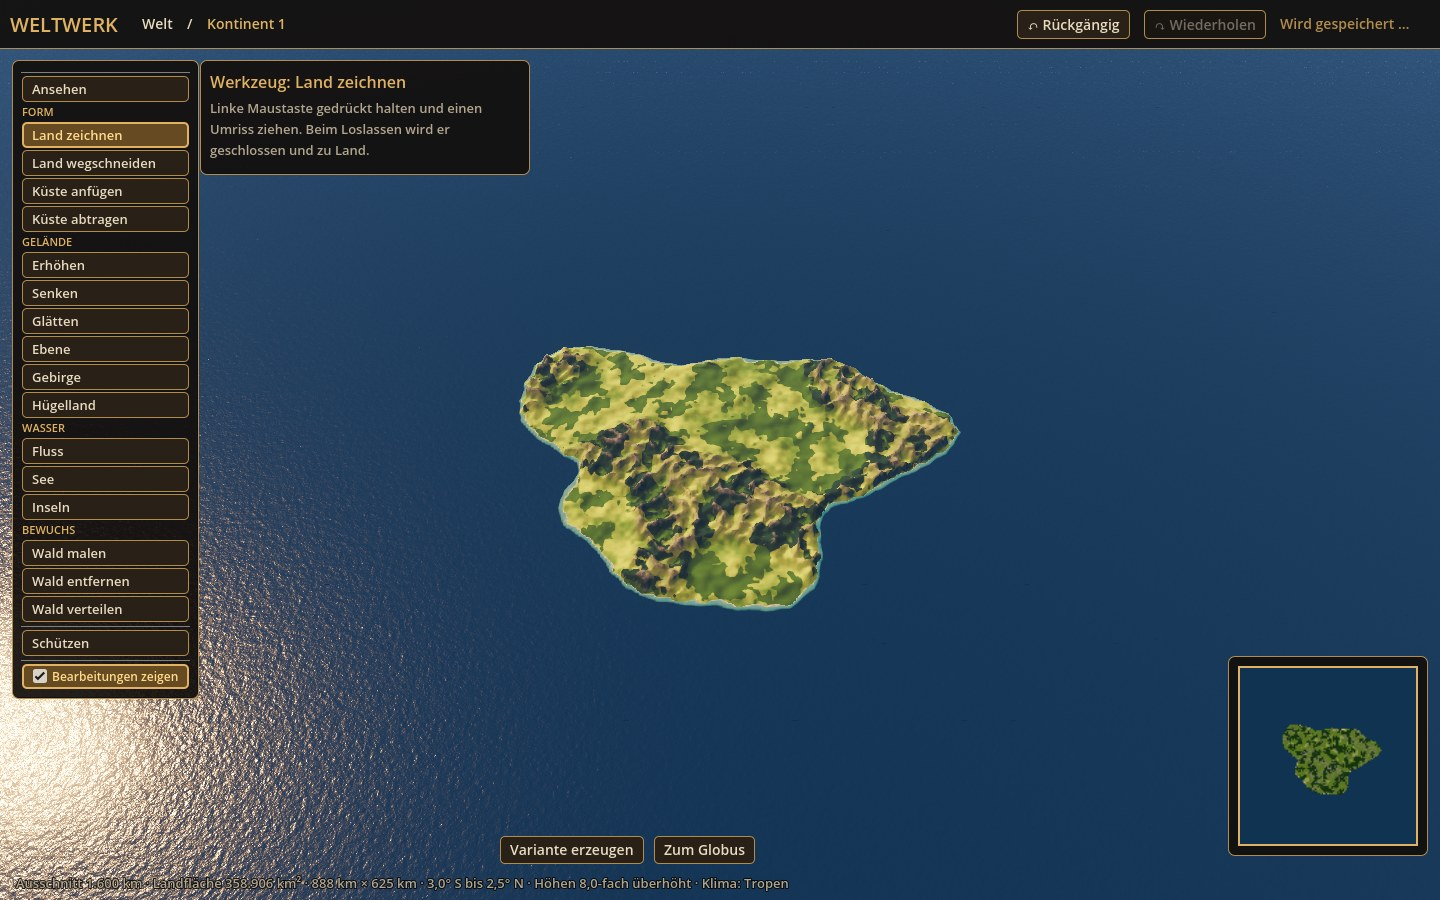
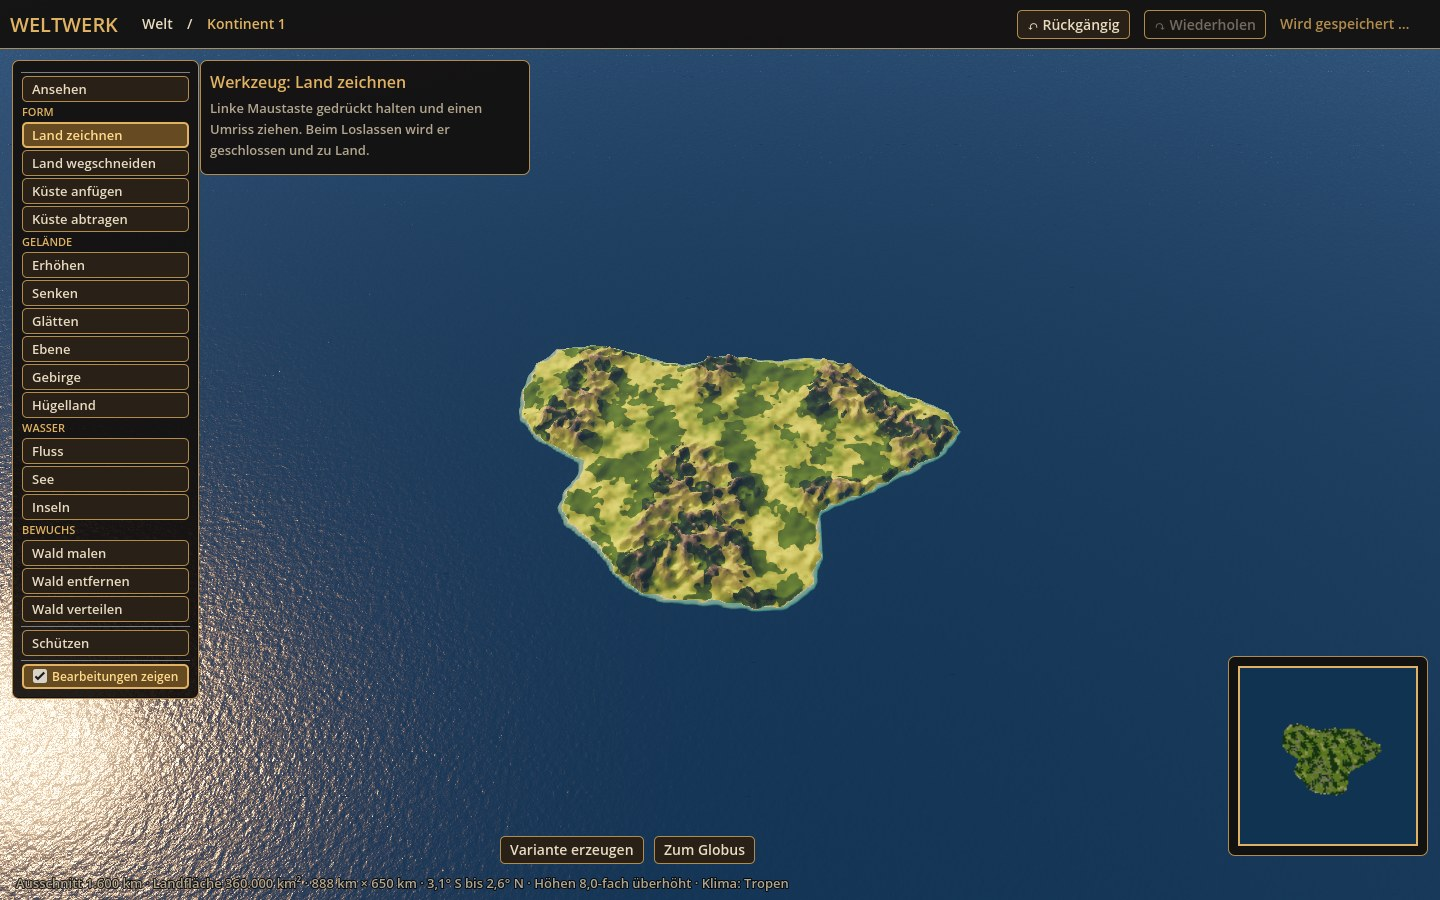
Bericht, CLAUDE.md, weiche Datentextur, Nadelwald ohne Blaustich, Abnahme Nachbarbereich
- docs/BERICHT_KONTINENTE.md: Ablauf, Geprüftes (Abnahme 20/20 und 9/9, 49 Tests),
  Eingeschränktes, Ungeprüftes, Messwerte, Guthaben; Bilder in docs/abnahme und docs/stufen.
- CLAUDE.md: Weltmodell mit Kennungen, Befehle (--neu, --abnahme, --stufen), Entscheidungen
  (Planet bis doppelte Erde, Anzahl Kontinente nicht begrenzt), offene Punkte.
- Farben aus einer 16-Bit-Kopie der Datentextur (wird überall weich gefiltert).
- Nadelwald-Luftbild ohne Blaustich (sah aus der Ferne wie Tümpel aus).
- Abnahme Teil 2 prüft das Mitwandern des Ausschnitts.

diff --git a/docs/BERICHT_KONTINENTE.md b/docs/BERICHT_KONTINENTE.md
@@ -1,0 +1,118 @@
+# Bericht: Kontinente, Kontinentalkarten, Regionen (21. 11. 2026)
+
+Auftrag: eigene Kontinente anlegen, auf dem Globus platzieren, daraus brauchbare,
+detaillierbare Kontinentalkarten gestalten; Regionen als anschließendes Ziel. Entwurf:
+`docs/ENTWURF_KONTINENTE.md`. Abnahme mit neuer Testwelt: bestanden (siehe unten).
+
+## Starten
+
+```powershell
+$godot = "C:\Users\Mattes\Downloads\Godot_v4.7.2-stable_win64.exe\Godot_v4.7.2-stable_win64_console.exe"
+& $godot --path D:\WELTWERK                       # Editor mit der eigenen Welt (user://welt.json)
+& $godot --path D:\WELTWERK -- --neu              # leere Probewelt (user://welt_neu.json, nie die Hauptwelt)
+& $godot --position 2000,60 --path D:\WELTWERK -- --abnahme=D:\WELTWERK\docs\abnahme --schritt=1   # Abnahme Teil 1
+& $godot --position 2000,60 --path D:\WELTWERK -- --abnahme=D:\WELTWERK\docs\abnahme --schritt=2   # Teil 2 (Neustart)
+```
+
+Der Editor startet dort, wo zuletzt gearbeitet wurde (Globus, Kontinent oder Region).
+
+## Ablauf in der Oberfläche
+
+1. **Globus**: rechts „Neu zeichnen“ (leere Meeresfläche, gleich mit „Land zeichnen“) oder
+   „Neu erzeugen“ (erzeugte Grundform als Ausgangspunkt). Klick wählt einen Kontinent, Ziehen
+   auf dem gewählten verschiebt ihn, Ziehen daneben dreht den Globus, Doppelklick öffnet.
+   Regler: Planetengröße (bis doppelte Erde), Größe, Breite, Länge, Ausrichtung, Klima;
+   Namensfeld (bleibt leer, bis der Spielleiter einen Namen vergibt); „Löschen“ mit Rückfrage.
+2. **Kontinent**: Werkzeugleiste links in Gruppen – Form (Land zeichnen, Land wegschneiden,
+   Küste anfügen/abtragen), Gelände (Erhöhen, Senken, Glätten, Ebene, Gebirge, Hügelland),
+   Wasser (Fluss, See, Inseln), Bewuchs (Wald malen/entfernen, Wald verteilen), Schützen.
+   Oben daneben steht immer das aktive Werkzeug mit einem Satz zur Bedienung und nur den
+   Reglern, die es braucht; „Neu würfeln“ bei Erzeugung. Pinselkreis in echter Größe,
+   Umriss und Fluss als Linie vor dem Loslassen. Unten rechts die Übersichtskarte mit dem
+   sichtbaren Ausschnitt (Klick springt), unten die Statuszeile mit Landfläche, Ausdehnung
+   und Breitenlage.
+3. **Regionen**: am Zoom-Anschlag weiter hineinzoomen öffnet 1/8 unter dem Mauszeiger (bis
+   etwa 400 m Seitenlänge). Pfad oben (Welt / Kontinent / Region 1:8 / …) führt zurück.
+   Verschiebt man über den Rand, wandert der Ausschnitt mit.
+
+## Was funktioniert (geprüft)
+
+Abnahme mit echten Mausereignissen in zwei getrennten Programmläufen (`docs/abnahme/`):
+**Teil 1: 20/20 Prüfungen, Teil 2 (nach Neustart): 9/9.** Dazu 49 Tests der Fachlogik.
+
+| Prüfung | Bild |
+| --- | --- |
+| Neue, leere Welt; „Neu zeichnen“ öffnet den Kontinent mit „Land zeichnen“ | `a01`, `a02` |
+| Umriss mit der Maus gezeichnet → Land; Bucht weggeschnitten → Meer | `a03` |
+| Gebirge (bis 3.200 m), „Neu würfeln“ ersetzt die Erzeugung | `a04`, `a05` |
+| Hügelland, Wald verteilen, Fluss (Spiegel fällt), See (Wasser über Grund), Inseln, Schutz | `a04`, `a05` |
+| Zurück zum Globus, Kontinent mit der Maus verschoben (ein Rückgängig-Schritt) | `a06`, `a07` |
+| Ausrichtung und Größe je ein Schritt; Planetengröße 9.000 km | `a07` |
+| Zweiter, erzeugter Kontinent; Löschen; Rückgängig stellt ihn wieder her | `a08` |
+| Doppelklick öffnet den Kontinent; Region 1:64 vertiefen, Wald und Höhe malen | `a09` |
+| Herauszoomen: Detailarbeit vereinfacht und am richtigen Ort markiert | `a10` |
+| Gespeichert = geladen (gleicher Stand) | – |
+| Neustart: beide Kontinente, gleicher Weltstand, Höhen bitgleich, letzte Ansicht (Region) | `b01` |
+| Weiterarbeiten nach Neustart, Rückgängig und Wiederholen | `b02` |
+| Ausschnitt wandert beim Verschieben über den Rand mit | `b02b` |
+| Globus nach Neustart | `b03` |
+
+Weitere geprüfte Eigenschaften (Tests): Land-Bearbeitungen wirken in Reihenfolge (zweimal
+anfügen, dann abtragen = Meer); kein Land jenseits des Kontinentfensters; Grundform wächst beim
+Skalieren mit („Alles wächst mit“); Live-Malen ergibt genau dasselbe wie die Neuberechnung;
+Schutz hält die alte Variante fest und blockiert spätere Erzeugung, ältere Erzeugung bleibt;
+beschädigte Weltdatei wird beiseitegelegt und der letzte gute Stand geladen; alte Weltdateien
+(ohne Kennungen) werden übernommen; Landfläche einer gezeichneten Form auf ±6 % genau.
+
+**Grafik** – bewertet auf fünf Stufen im benutzbaren Editor (`docs/stufen/`, vorher/nachher):
+
+- Feinster Ausschnitt (≈ 400 m): gemischter Wald mit Laub- und neuen Nadelbäumen, Farb- und
+  Größenstreuung je Baum, Arten nach Höhe und Klima; feineres Gras, das zu Ufer und Waldrand
+  hin ausläuft; klares Flachwasser mit Felsen am Ufer.
+- Mittlere Stufen (3–240 km): Wiesenfarben aus der Zielpalette in festen Meterwellen (gleiche
+  Welt auf jeder Stufe statt mitwachsender Musterung), Wald als Kronendach-Luftbild.
+- Kontinent: Schummerung, Höhenstufen, Schnee, Flüsse und Seen als Wasser.
+- Globus: alle Kontinente, gewählter mit Messingrahmen, helleres Meer, Atmosphärensaum.
+
+Messwerte (RTX 2070 Super, 1440 × 900): Kontinent bis Region 3 km 280–310 Bilder/s;
+feinster Ausschnitt 160 Bilder/s (Wiese/Ufer) bzw. 62 Bilder/s (dichter Mischwald,
+3,4 Mio. Dreiecke). Ausschnitt berechnen 0,2–0,6 s, feinster mit Bäumen und Gras 0,7–1,0 s.
+
+## Eingeschränkt
+
+- **Formen einzeln ändern**: Ein gezeichneter Umriss lässt sich nicht nachträglich anfassen
+  und verschieben; ändern heißt übermalen (anfügen/wegschneiden/Küste) oder Rückgängig.
+  „Umriss aus erzeugter Grundform“ (Erzeugung als bearbeitbare Form) fehlt.
+- **Flüsse** folgen dem Gefälle nur entlang des gezogenen Laufs (Spiegel steigt nie an, Lauf
+  wird zum tieferen Ende ausgerichtet); sie suchen sich keinen Weg selbst. Seen sind rund.
+- **Regionen** haben keinen Namen und keine Liste; man öffnet sie durch Hineinzoomen oder die
+  Übersichtskarte, gemerkte Ausschnitte erscheinen als Messingrahmen. Ein Rechteck aufziehen
+  („Ausschnitt wählen“) gibt es nicht. Beim Mitwandern stockt das Bild kurz (0,4–1 s).
+- **Rückgängig** gilt je Sitzung; nach einem Neustart beginnt der Verlauf neu (Weltstand bleibt).
+- **Überlappende Kontinente** werden nur gemeldet (Statuszeile); auf dem Globus gilt das höhere
+  Land, in der Landschaft zeigt jeder Kontinent nur sich selbst.
+- **Übergang zwischen Stufen** ist ein Wechsel, kein fließender Zoom (Daten sind dafür bereit).
+- Die gröbere Umgebung um einen Ausschnitt ist sichtbar gröber (Ring im Hintergrund).
+
+## Ungeprüft
+
+- Sehr viele Kontinente (geprüft: 2; vorgesehen sind über 2.000) und sehr lange Strichlisten
+  (Leistung). Trackpad-Bedienung, MacBook (laut Absprache nicht vorrangig).
+- Bedienung von Hand über längere Zeit (alle Prüfungen sind automatische Mausabläufe plus
+  Bildkontrolle; die Bedienwege sind dieselben).
+- Sehr kleine oder sehr große Planeten in Kombination mit großen Kontinenten (Verzerrung der
+  mittabstandstreuen Abbildung über ~3.000 km).
+
+## Bestand und Guthaben
+
+Higgsfield in diesem Auftrag: **4 Bilder, 8 Guthaben** (561,85 → 553,85; Grenze 400):
+Nadelzweig-Atlas, dunklerer Laubatlas, Kronendach Laubwald und Nadelwald (Luftbild, nahtlos).
+Protokoll mit Anweisungen in `assets/target/source/generated.json`. Nadelbäume per
+Blender-Skript (`tools/blender/make_target_assets.py`, fester Ausgangswert).
+
+## Unabhängige Prüfung
+
+Zwei Prüfrunden mit getrennten Prüfern und Gegenprüfung. Runde 1: 18 bestätigte Befunde,
+alle behoben (u. a. Schutz gegen ältere Erzeugung, Live/Neuberechnung bei Land und Ebene,
+abgebrochenes Ziehen, Name beim falschen Kontinent, Ersatzdatei nach Beschädigung). Runde 2:
+siehe Abschnitt unten.

diff --git a/CLAUDE.md b/CLAUDE.md
@@ -100,12 +100,11 @@ mit Schnee, Sandstrände, türkisfarbenes Flachwasser über tiefem Blau, natürl
 Bedienung dort: Werkzeugleiste links, Pfad oben (Welt / Kontinent / Region), Rückgängig,
 „Gespeichert“, Pinselkreis mit Einstellungen.
 
-## Noch offen
-- Wie Kontinentgröße und Handarbeit zusammenspielen (Frage an den Spielleiter offen).
-- Kontinentgröße ändern skaliert nur die Grundform, Striche bleiben in Metern – wie soll
-  Skalieren mit Handarbeit umgehen?
-- Flüssiger Übergang zwischen Maßstäben, Flüsse am Gefälle, Seen über Meereshöhe, Festsetzen,
-  Konfliktanzeige, Form zeichnen/importieren, mehrere Kontinente – noch nicht gebaut.
+## Noch offen (Stand 21. 11. 2026, Einzelheiten docs/BERICHT_KONTINENTE.md)
+- Flüssiger Übergang zwischen Maßstäben (heute Wechsel; Daten sind dafür bereit).
+- Formen nachträglich anfassen/verschieben; erzeugte Grundform als bearbeitbare Form.
+- Regionen mit Namen und Liste, Rechteck aufziehen; Flüsse, die sich selbst einen Weg suchen.
+- Überlappende Kontinente nur gemeldet, nicht zusammengeführt; Rückgängig gilt je Sitzung.
 
 ## Bestand und Lizenzen
 - Fremdbestände nur mit klarer Lizenz; Herkunft, Lizenz, Urheber und Größe in `docs/STILTEST.md`
@@ -116,10 +115,15 @@ Bedienung dort: Werkzeugleiste links, Pfad oben (Welt / Kontinent / Region), Rü
 - Laubmodelle nicht mit Godots automatischer Vereinfachung (LOD) importieren – sie rechnet
   Blätter weg. Normalenkarten beim Import als solche markieren (`tools/run_style_test.ps1`).
 
-## Weltmodell (Kurzfassung, Einzelheiten in `docs/PLAN.md`)
-- `WorldDocument` = Planet + Kontinente (Lage, Ausgangswert, Klima-Anpassung, **Strichliste**,
-  gemerkte Regionen). Jede Änderung ist ein Befehl → Rückgängig/Wiederholen. Gespeichert wird
-  nur dieser Stand (JSON); alles Abgeleitete wird neu berechnet.
+## Weltmodell (Kurzfassung, Einzelheiten in `docs/PLAN.md`, `docs/ENTWURF_KONTINENTE.md`)
+- `WorldDocument` = Planet (Radius bis doppelte Erde) + beliebig viele Kontinente mit **fester
+  ID** (Name, Grundform `generated`/`drawn`, Lage, Größe, `base_size_km`, Ausgangswert,
+  `scatter_seed`, Klima-Anpassung, **Strichliste**, gemerkte Regionen). Befehle verweisen auf die
+  ID, nie auf den Listenplatz; Planetwerte über `WorldDocument.PLANET`. Jede Änderung ist ein
+  Befehl → Rückgängig/Wiederholen. Gespeichert wird nur dieser Stand (JSON, volle Genauigkeit,
+  `.bak`; beschädigte Datei → `.defekt`, nie überschrieben); alles Abgeleitete wird neu berechnet.
+- Striche: Pinsel, Formen (`shape_add`/`shape_remove`), Erzeugung (`gen_*`, eigener Ausgangswert,
+  
 - `TerrainSampler` = die eine Auswertungsfunktion: Erzeugung (nur so fein wie das Raster) plus
   Striche → `TerrainWindow` (Ausschnitt: Höhe, Wald, Bearbeitungsmarken). Kontinentkoordinaten
   in Metern, 64 Bit, x = Osten, y = Norden.
@@ -142,7 +146,9 @@ Bedienung dort: Werkzeugleiste links, Pfad oben (Welt / Kontinent / Region), Rü
   `target_materials.gd` (Bäume, Felsen, Büsche, Gras – auch vom Editor genutzt),
   `meadow.gdshaderinc` (eine Wiesenfarbe für Boden und Gras), `water_clear.gdshader`,
   `rock_granite.gdshader`, `grass_cards.gdshader`, `target_landscape.gd` (Landschaft, rein).
-- `src/editor/landscape_detail.gdshader` – Editor-Boden im Zielstil (Ausschnitte bis 3,6 km).
+- `src/editor/landscape_detail.gdshader` – Editor-Boden im Zielstil (Ausschnitte bis 4,2 km).
+- `docs/BERICHT_KONTINENTE.md` – Bericht des Kontinent-Auftrags; `docs/abnahme/`, `docs/stufen/` Bilder.
+- `tools/profile_window.gd` – Auswertungszeit eines Ausschnitts je Bearbeitung messen.
 - `assets/target/` – Zielbestand (Blender-Skript + Higgsfield; Originale und Protokoll in
   `assets/target/source/`, nur `generated.json` im Repository).
 - `tools/` – Ladeskript Poly Haven, Blender-Skripte, Stiltest-Messlauf.
@@ -175,6 +181,9 @@ $godot = "C:\Users\Mattes\Downloads\Godot_v4.7.2-stable_win64.exe\Godot_v4.7.2-s
 & $godot --path D:\WELTWERK -- --screenshot=C:\pfad\bild.png                    # Bild speichern, beenden
 & $godot --position 2000,60 --path D:\WELTWERK -- --demo=D:\WELTWERK\docs\nachweis  # Nachweis vorführen (Bilder, Messwerte)
 & $godot --path D:\WELTWERK -- --welt=C:\pfad\welt.json --screenshot=C:\pfad\b.jpg  # andere Weltdatei, Bild
+& $godot --path D:\WELTWERK -- --neu                                            # leere Probewelt (user://welt_neu.json)
+& $godot --position 2000,60 --path D:\WELTWERK -- --abnahme=D:\WELTWERK\docs\abnahme --schritt=1  # Abnahme, dann --schritt=2
+& $godot --position 2000,60 --path D:\WELTWERK -- --welt=<welt.json> --stufen=<ordner> [--richtung=250]  # Bildreihe aller Stufen
 & $godot --path D:\WELTWERK res://scenes/style_test.tscn                         # Stiltest
 powershell -ExecutionPolicy Bypass -File tools\run_style_test.ps1                # Stiltest messen
 ```
@@ -205,3 +214,11 @@ Weltdatei: `user://welt.json` (Windows `%APPDATA%\Godot\app_userdata\Weltwerk\we
   Übertragung in die feinsten Editor-Ausschnitte. Die Editor-Kamera wird beim Hineinzoomen
   flacher (52° → 30°, nur zoomabhängig, nicht drehbar) – sonst wirken Gras und Bäume von oben
   wie Striche. Spielleiter hat 500 Higgsfield-Guthaben nachgelegt (Stand danach 561,85).
+- 21. 11. 2026 – Auftrag Kontinente (6–7 Stunden, bis 400 Higgsfield-Guthaben). Entscheidungen des
+  Spielleiters: **Planetengröße anpassbar bis doppelte Erde**; **Anzahl der Landmassen auf dem
+  Globus nicht begrenzen** (umgesetzt: Kontinentdaten als Textur, praktisch über 2.000).
+  Routineentscheidungen: neue Welt startet leer auf dem Globus; Kontinentfenster begrenzt das
+  Land (weicher Rand); Schutz wirkt gegen Erzeugung erst ab seiner Stelle in der Strichliste;
+  Bäume streuen nach eigenem Ausgangswert (bleiben bei neuer Variante); Wiese und Wald auf
+  mittleren Stufen in echten Metern (Kronendach-Luftbild); letzte Ansicht wird gemerkt (eigene
+  Datei neben der Welt). Ausgegeben: 8 Guthaben (Stand 553,85). Bericht `docs/BERICHT_KONTINENTE.md`.
